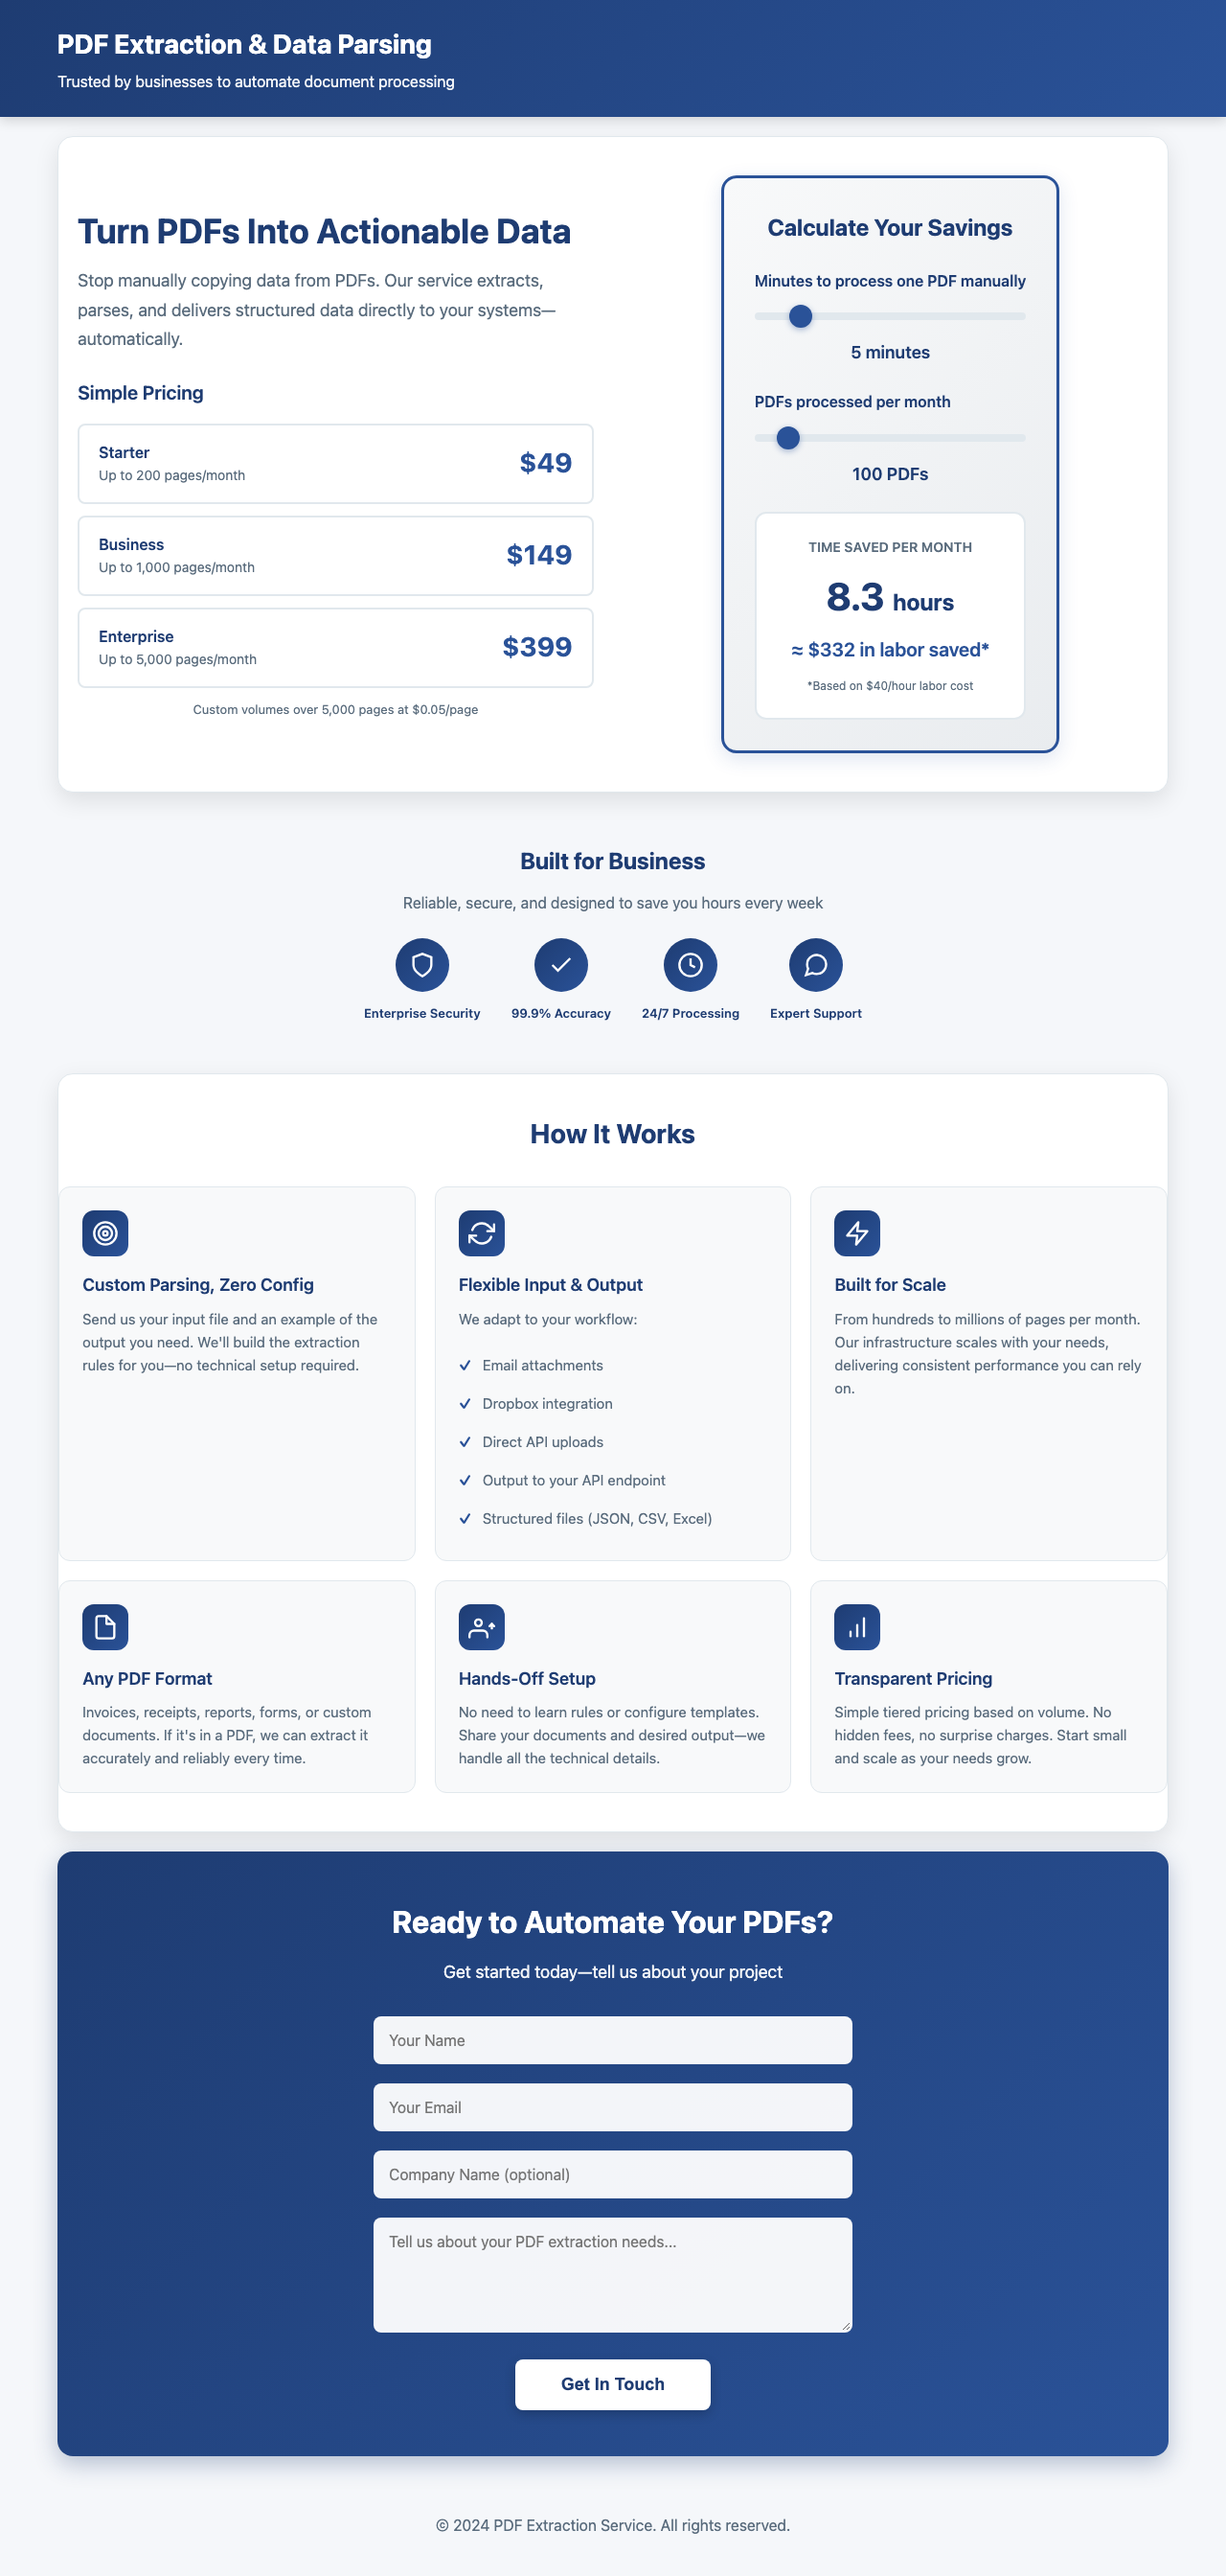
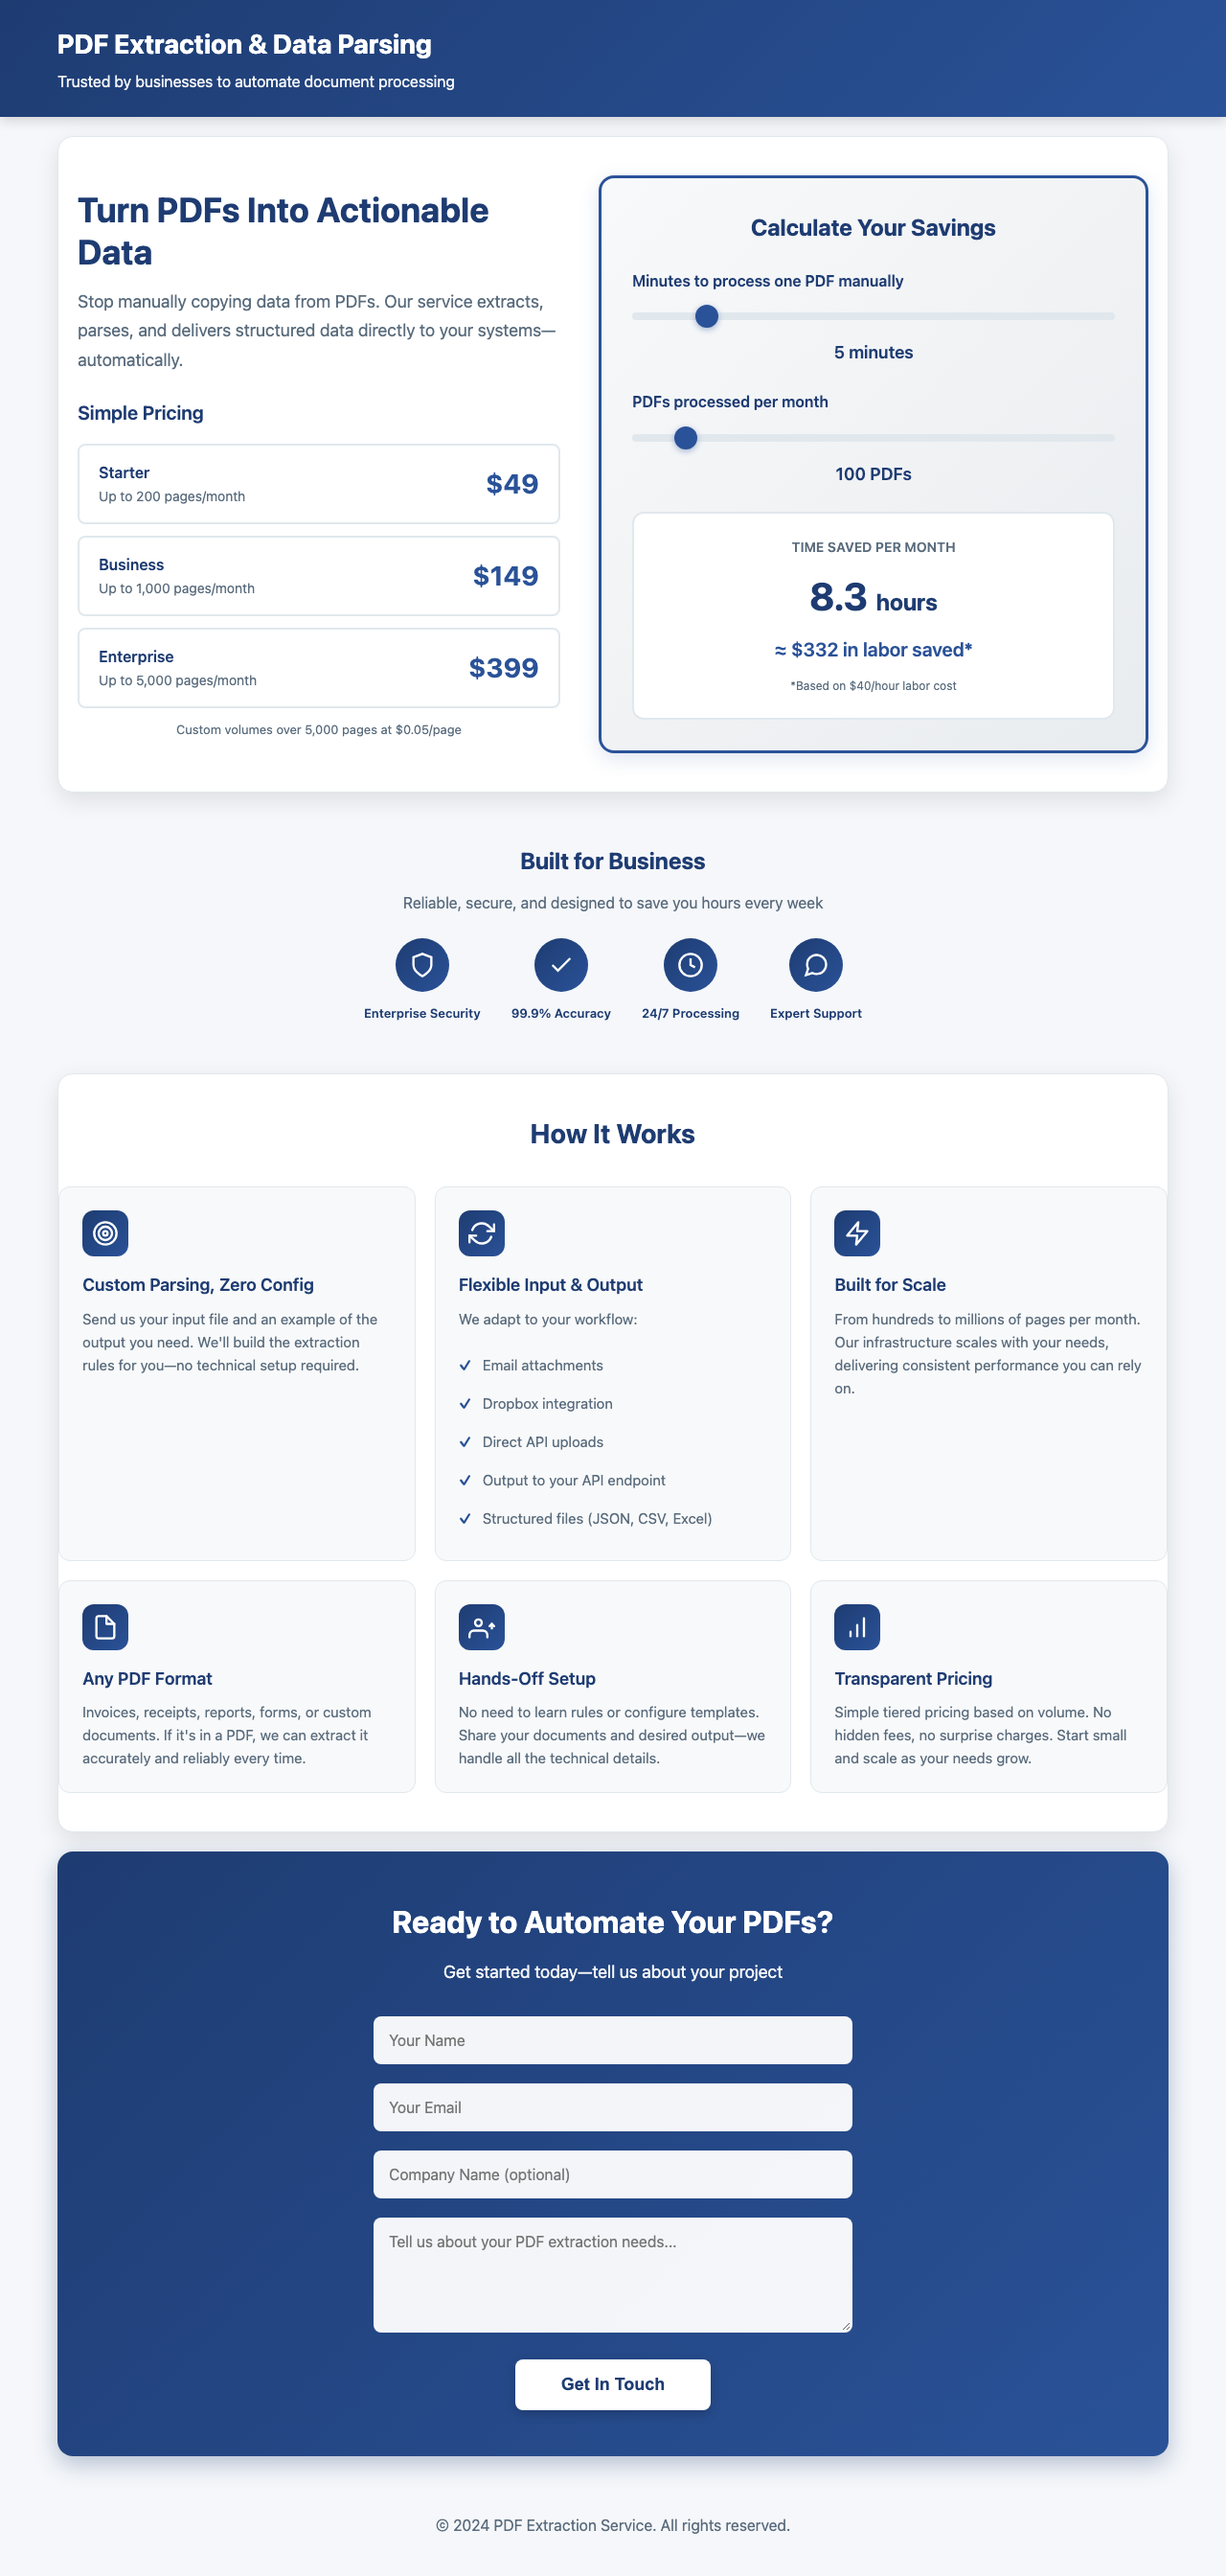
Reorganize How It Works section
- Split into two sections: Why Choose Us (3 tiles) and How It Works
- Why Choose Us: Flexible Integration, Built for Scale, Any PDF Format
- How It Works: Vertical numbered list (1-4) showing customer journey
  1. Share Your Sample
  2. We Build Your Pipeline
  3. Send Your Documents
  4. Receive Structured Data
- Clearer separation between selling points and process

diff --git a/index.html b/index.html
@@ -527,20 +527,8 @@
         </div>
 
         <section class="value-props">
-            <h2>How It Works</h2>
-            <div class="features">
-                <div class="feature">
-                    <div class="feature-icon">
-                        <svg viewBox="0 0 24 24">
-                            <circle cx="12" cy="12" r="10"></circle>
-                            <circle cx="12" cy="12" r="6"></circle>
-                            <circle cx="12" cy="12" r="2"></circle>
-                        </svg>
-                    </div>
-                    <h3>Custom Parsing, Zero Config</h3>
-                    <p>Send us your input file and an example of the output you need. We'll build the extraction rules for you—no technical setup required.</p>
-                </div>
-
+            <h2>Why Choose Us</h2>
+            <div class="features" style="grid-template-columns: repeat(3, 1fr); max-width: 900px; margin: 0 auto;">
                 <div class="feature">
                     <div class="feature-icon">
                         <svg viewBox="0 0 24 24">
@@ -549,15 +537,8 @@
                             <path d="M3.51 9a9 9 0 0 1 14.85-3.36L23 10M1 14l4.64 4.36A9 9 0 0 0 20.49 15"></path>
                         </svg>
                     </div>
-                    <h3>Flexible Input & Output</h3>
-                    <p>We adapt to your workflow:</p>
-                    <ul>
-                        <li>Email attachments</li>
-                        <li>Dropbox integration</li>
-                        <li>Direct API uploads</li>
-                        <li>Output to your API endpoint</li>
-                        <li>Structured files (JSON, CSV, Excel)</li>
-                    </ul>
+                    <h3>Flexible Integration</h3>
+                    <p>Email, Dropbox, API uploads—we work with your existing systems. Output directly to your API or as structured files.</p>
                 </div>
 
                 <div class="feature">
@@ -567,7 +548,7 @@
                         </svg>
                     </div>
                     <h3>Built for Scale</h3>
-                    <p>From hundreds to millions of pages per month. Our infrastructure scales with your needs, delivering consistent performance you can rely on.</p>
+                    <p>From hundreds to millions of pages per month. Our infrastructure scales with your needs seamlessly.</p>
                 </div>
 
                 <div class="feature">
@@ -578,32 +559,46 @@
                         </svg>
                     </div>
                     <h3>Any PDF Format</h3>
-                    <p>Invoices, receipts, reports, forms, or custom documents. If it's in a PDF, we can extract it accurately and reliably every time.</p>
+                    <p>Invoices, receipts, reports, forms, or custom documents. If it's in a PDF, we can extract it accurately.</p>
                 </div>
+            </div>
+        </section>
 
-                <div class="feature">
-                    <div class="feature-icon">
-                        <svg viewBox="0 0 24 24">
-                            <path d="M9 11a3 3 0 1 0 0-6 3 3 0 0 0 0 6z"></path>
-                            <path d="M17 21v-2a4 4 0 0 0-4-4H5a4 4 0 0 0-4 4v2"></path>
-                            <path d="M23 11l-2-2-2 2"></path>
-                            <line x1="21" y1="13" x2="21" y2="9"></line>
-                        </svg>
+        <section class="value-props">
+            <h2>How It Works</h2>
+            <div style="max-width: 700px; margin: 0 auto;">
+                <div style="display: flex; flex-direction: column; gap: 32px;">
+                    <div style="display: flex; gap: 20px; align-items: start;">
+                        <div style="flex-shrink: 0; width: 48px; height: 48px; background: linear-gradient(135deg, #1e3c72 0%, #2a5298 100%); border-radius: 50%; display: flex; align-items: center; justify-content: center; color: white; font-size: 24px; font-weight: 700;">1</div>
+                        <div>
+                            <h3 style="font-size: 20px; margin-bottom: 8px; color: #1e3c72; font-weight: 600;">Share Your Sample</h3>
+                            <p style="color: #5a6c7d; line-height: 1.7; margin: 0;">Send us a sample PDF and an example of the output format you need. This helps us understand exactly what data you want extracted.</p>
+                        </div>
                     </div>
-                    <h3>Hands-Off Setup</h3>
-                    <p>No need to learn rules or configure templates. Share your documents and desired output—we handle all the technical details.</p>
-                </div>
 
-                <div class="feature">
-                    <div class="feature-icon">
-                        <svg viewBox="0 0 24 24">
-                            <line x1="12" y1="20" x2="12" y2="10"></line>
-                            <line x1="18" y1="20" x2="18" y2="4"></line>
-                            <line x1="6" y1="20" x2="6" y2="16"></line>
-                        </svg>
+                    <div style="display: flex; gap: 20px; align-items: start;">
+                        <div style="flex-shrink: 0; width: 48px; height: 48px; background: linear-gradient(135deg, #1e3c72 0%, #2a5298 100%); border-radius: 50%; display: flex; align-items: center; justify-content: center; color: white; font-size: 24px; font-weight: 700;">2</div>
+                        <div>
+                            <h3 style="font-size: 20px; margin-bottom: 8px; color: #1e3c72; font-weight: 600;">We Build Your Pipeline</h3>
+                            <p style="color: #5a6c7d; line-height: 1.7; margin: 0;">Our team creates custom extraction rules tailored to your documents. No configuration or technical work required from you.</p>
+                        </div>
                     </div>
-                    <h3>Transparent Pricing</h3>
-                    <p>Simple tiered pricing based on volume. No hidden fees, no surprise charges. Start small and scale as your needs grow.</p>
+
+                    <div style="display: flex; gap: 20px; align-items: start;">
+                        <div style="flex-shrink: 0; width: 48px; height: 48px; background: linear-gradient(135deg, #1e3c72 0%, #2a5298 100%); border-radius: 50%; display: flex; align-items: center; justify-content: center; color: white; font-size: 24px; font-weight: 700;">3</div>
+                        <div>
+                            <h3 style="font-size: 20px; margin-bottom: 8px; color: #1e3c72; font-weight: 600;">Send Your Documents</h3>
+                            <p style="color: #5a6c7d; line-height: 1.7; margin: 0;">Upload PDFs via email, Dropbox, API, or your preferred method. We'll automatically process them as they arrive.</p>
+                        </div>
+                    </div>
+
+                    <div style="display: flex; gap: 20px; align-items: start;">
+                        <div style="flex-shrink: 0; width: 48px; height: 48px; background: linear-gradient(135deg, #1e3c72 0%, #2a5298 100%); border-radius: 50%; display: flex; align-items: center; justify-content: center; color: white; font-size: 24px; font-weight: 700;">4</div>
+                        <div>
+                            <h3 style="font-size: 20px; margin-bottom: 8px; color: #1e3c72; font-weight: 600;">Receive Structured Data</h3>
+                            <p style="color: #5a6c7d; line-height: 1.7; margin: 0;">Get clean, structured data delivered directly to your systems—ready to use in your database, spreadsheet, or application.</p>
+                        </div>
+                    </div>
                 </div>
             </div>
         </section>
